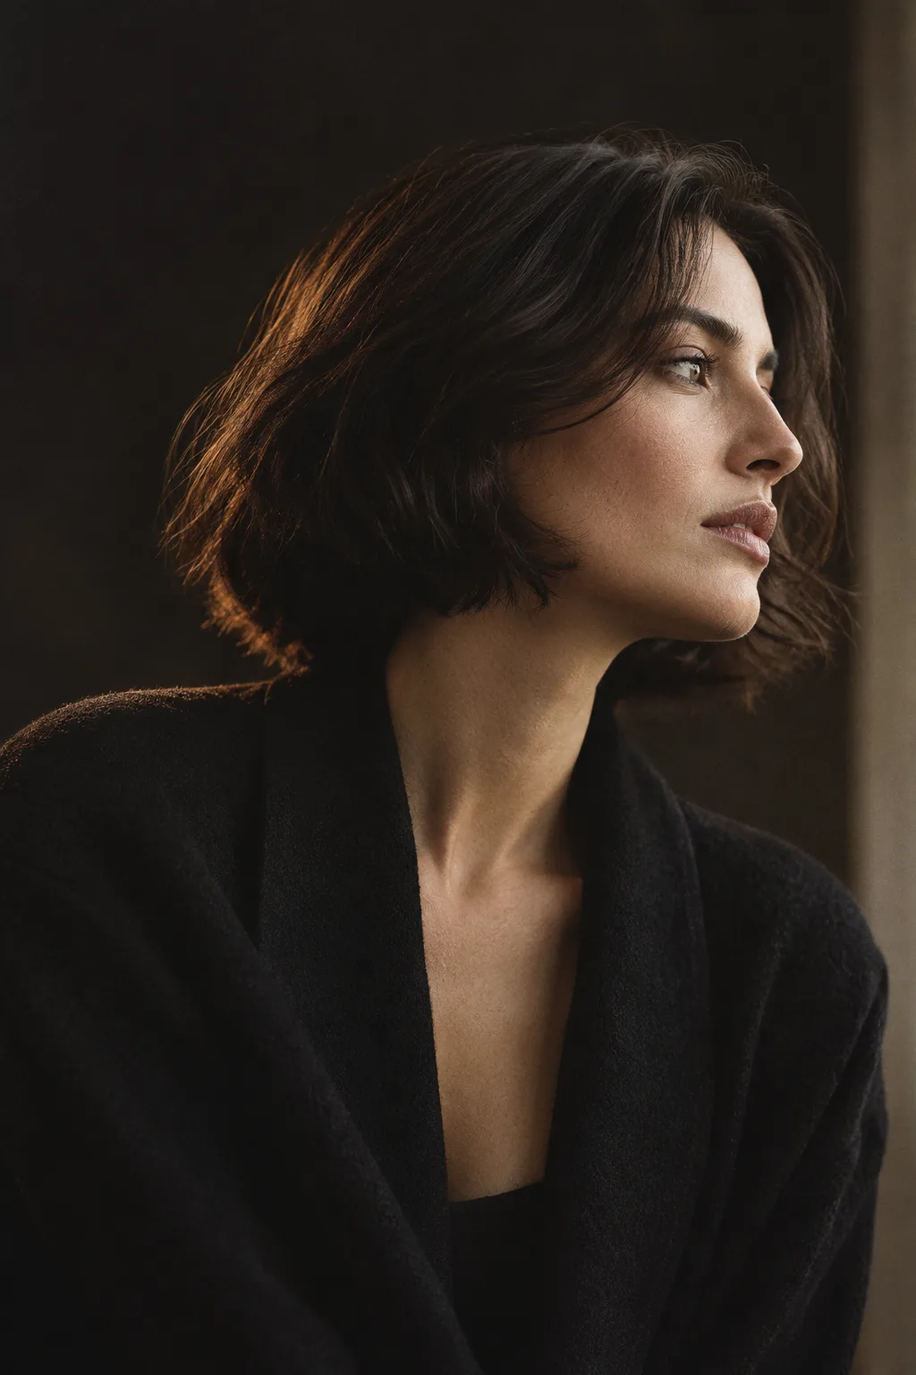
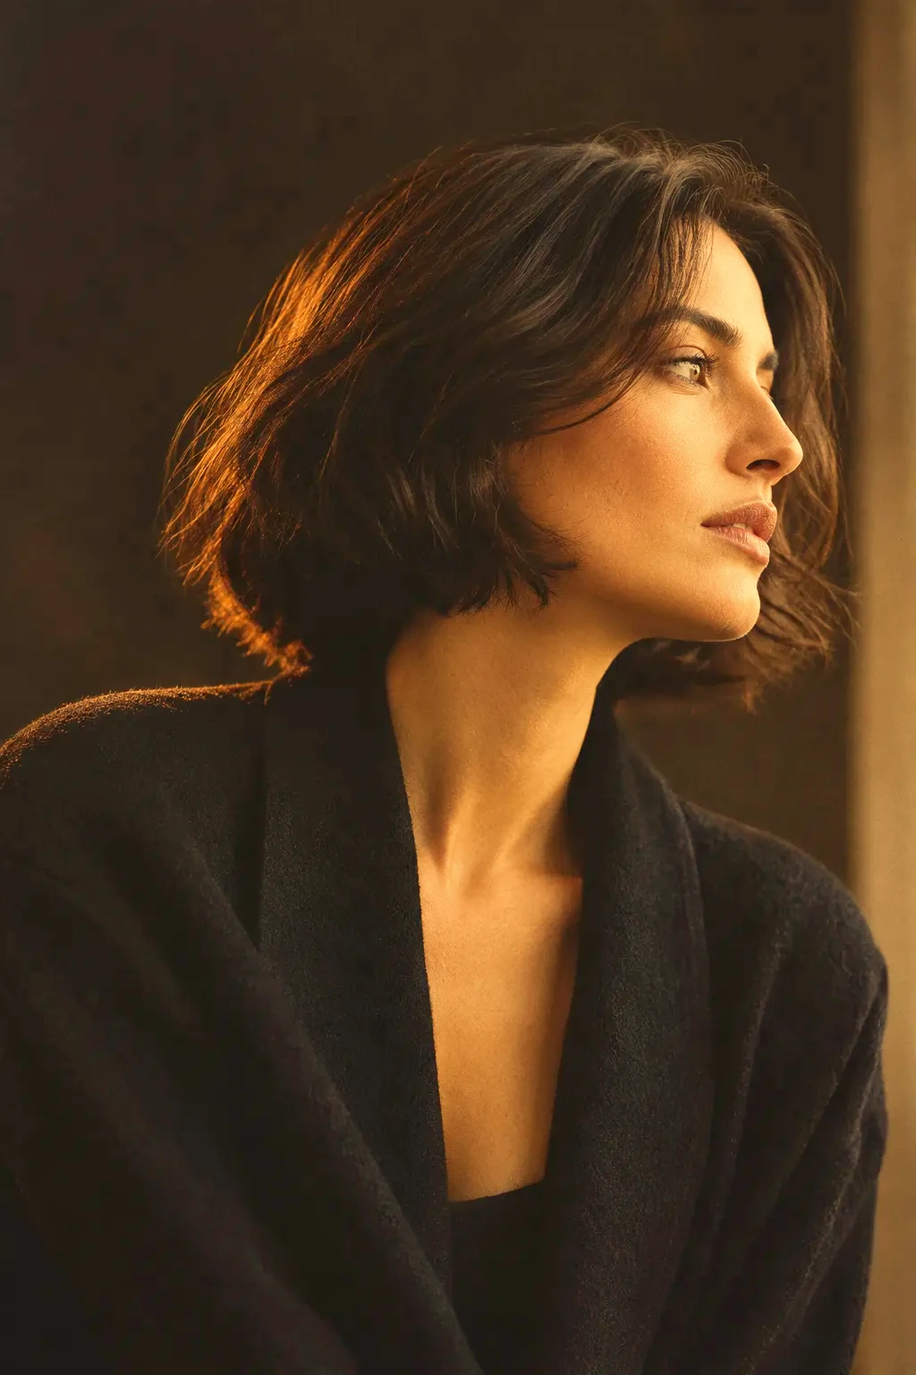
Atelier : hero « Le miroir », animation des quatre images, portraits réchauffés
- Hero : un miroir en arche embué qui se dégage puis s'ouvre sur toute la pièce (remplace la lame de ciseaux)
- Nouvelle section d'animation au défilement (ScrollChoreography, framer-motion) avec quatre images
- Portraits femme et homme réchauffés pour s'accorder à la lumière des nouvelles images
- Galerie et section Femme/Homme : saturation des images relevée

diff --git a/app/globals.css b/app/globals.css
@@ -41,9 +41,9 @@ button{font:inherit}
 .scroll-cue{position:absolute;left:5vw;bottom:44px;display:flex;align-items:center;gap:15px;color:rgba(238,231,222,.55);font-size:7px;letter-spacing:.19em}
 .scroll-cue i{display:block;width:1px;height:34px;background:rgba(200,185,165,.3);transform-origin:top;animation:cue-line 2s ease-in-out infinite}
 @keyframes cue-line{0%,100%{transform:scaleY(.25);opacity:.3}50%{transform:scaleY(1);opacity:.9}}
-.scene-two{justify-content:flex-end;padding-right:15vw}.scene-two .hero-scene__inner{max-width:440px}
+.scene-two{justify-content:flex-start;padding-left:13vw}.scene-two .hero-scene__inner{max-width:440px}
 .scene-three{justify-content:flex-start;padding-left:13vw}.scene-three .hero-scene__inner{max-width:490px}
-.scene-four{justify-content:flex-end;padding-right:13vw}.scene-four .hero-scene__inner{min-width:400px}
+.scene-four{justify-content:flex-start;padding-left:13vw}.scene-four .hero-scene__inner{min-width:400px}
 .scene-five{justify-content:center;text-align:center;padding-bottom:9vh}.scene-five .hero-scene__inner{max-width:none}.scene-five h2{font-size:clamp(42px,7vw,92px);margin-top:10px}
 .scene-number{display:flex;align-items:center;gap:12px;color:var(--beige);font-size:10px}.scene-number i{width:28px;height:1px;background:var(--bronze)}
 .hero-scene h2{font-size:clamp(62px,9vw,128px)}
@@ -73,8 +73,8 @@ button{font:inherit}
 .duo-panel{position:relative;min-width:0;flex:1;overflow:hidden;transition:flex 1s cubic-bezier(.18,.72,.2,1);isolation:isolate}
 .duo-section:has(.duo-women:hover) .duo-women{flex:1.3}.duo-section:has(.duo-women:hover) .duo-men{flex:.7}
 .duo-section:has(.duo-men:hover) .duo-men{flex:1.3}.duo-section:has(.duo-men:hover) .duo-women{flex:.7}
-.duo-panel img{position:absolute;inset:0;width:100%;height:100%;object-fit:cover;object-position:center 35%;z-index:-2;filter:saturate(.58);transition:transform 1.6s cubic-bezier(.2,.7,.2,1),filter 1s}
-.duo-panel:hover img{transform:scale(1.025);filter:saturate(.78)}
+.duo-panel img{position:absolute;inset:0;width:100%;height:100%;object-fit:cover;object-position:center 35%;z-index:-2;filter:saturate(.92);transition:transform 1.6s cubic-bezier(.2,.7,.2,1),filter 1s}
+.duo-panel:hover img{transform:scale(1.025);filter:saturate(1.05)}
 .duo-shade{position:absolute;inset:0;z-index:-1;background:linear-gradient(0deg,rgba(7,7,6,.82),rgba(7,7,6,.1) 58%,rgba(7,7,6,.12))}
 .duo-content{position:absolute;left:clamp(30px,6vw,95px);right:30px;bottom:12%;color:var(--ivory)}
 .duo-content .eyebrow{color:rgba(238,231,222,.62);font-size:8px}
@@ -100,7 +100,7 @@ button{font:inherit}
 .gallery-figure{position:relative;margin:0;will-change:transform}.gallery-large{grid-column:1;grid-row:1;width:100%;height:630px}.gallery-tall{grid-column:2;grid-row:1;width:100%;height:490px;margin-top:90px}.gallery-wide{grid-column:1 / span 2;grid-row:3;width:71%;height:470px;margin:0 0 0 16%}
 .gallery-frame{position:relative;width:100%;height:100%;overflow:hidden;cursor:none;will-change:clip-path}
 .gallery-media{position:absolute;inset:0;transition:transform 1.3s cubic-bezier(.2,.7,.2,1)}
-.gallery-figure img{width:100%;height:100%;object-fit:cover;filter:saturate(.65);transition:filter .9s;will-change:transform}.gallery-large img{object-position:center 32%}.gallery-tall img{object-position:center 25%}.gallery-wide img{object-position:center 58%}
+.gallery-figure img{width:100%;height:100%;object-fit:cover;filter:saturate(.95);transition:filter .9s;will-change:transform}.gallery-large img{object-position:center 32%}.gallery-tall img{object-position:center 25%}.gallery-wide img{object-position:center 58%}
 .gallery-figure figcaption{position:absolute;bottom:0;left:0;right:0;padding:16px 18px;background:linear-gradient(transparent,rgba(7,7,6,.7));display:flex;justify-content:space-between;color:var(--ivory);font-size:7px;letter-spacing:.15em;opacity:0;transform:translateY(12px);transition:opacity .6s,transform .8s cubic-bezier(.2,.7,.2,1)}
 .gallery-marquee{grid-column:1 / -1;grid-row:2;position:relative;z-index:2;margin:-20px -10vw;overflow:hidden;pointer-events:none;padding:0 0 4px}
 .marquee-track{display:flex;width:max-content;will-change:transform}
@@ -109,7 +109,7 @@ button{font:inherit}
 .marquee-word i{font-style:normal;font-size:.5em;-webkit-text-stroke:0;color:var(--bronze)}
 .gallery-heading h2{white-space:nowrap}
 .outline-word{display:inline!important}.outline-letter{display:inline-block!important;color:transparent;-webkit-text-stroke:1.2px var(--ink)}
-@media (hover:hover) and (pointer:fine){.gallery-figure:hover .gallery-media{transform:scale(1.045)}.gallery-figure:hover img{filter:saturate(.92)}.gallery-figure:hover figcaption{opacity:1;transform:none}}
+@media (hover:hover) and (pointer:fine){.gallery-figure:hover .gallery-media{transform:scale(1.045)}.gallery-figure:hover img{filter:saturate(1.08)}.gallery-figure:hover figcaption{opacity:1;transform:none}}
 @media (hover:none),(pointer:coarse){.gallery-figure figcaption{opacity:1;transform:none}.gallery-frame{cursor:auto}}
 
 .signature-section{min-height:92vh;position:relative;display:flex;flex-direction:column;justify-content:center;align-items:center;padding:130px 7vw;text-align:center;overflow:hidden;background:#e1d5c6}
@@ -151,12 +151,11 @@ button{font:inherit}
 @media(prefers-reduced-motion:reduce){html{scroll-behavior:auto}*,*::before,*::after{animation-duration:.01ms!important;animation-iteration-count:1!important;transition-duration:.01ms!important;scroll-behavior:auto!important}.hero-scroll{height:100svh;margin-bottom:0}.hero-progress,.blade-light,.warm-halo,.vertical-light{display:none!important}.hero-wipe,.cut-line,.cut-edge{display:none!important}}
 @media(max-width:700px){.scene-one__inner{margin-top:-3vh}}
 
-/* Sculptural blades: scroll controls geometry and reflected light. */
+/* Le miroir : cadre en arche à droite, qui s'ouvre au défilement jusqu'à occuper tout l'écran. */
+.mirror-frame{position:absolute;z-index:-2;top:15vh;bottom:15vh;right:11vw;width:30vw;overflow:hidden;border-radius:50vw 50vw 0 0;pointer-events:none;box-shadow:0 0 0 1px rgba(176,130,84,.6),0 0 0 14px var(--ink),0 0 0 15px rgba(176,130,84,.3),0 0 140px rgba(166,123,80,.24)}
+.mirror-photo{display:block;width:100%;height:100%;object-fit:cover;object-position:15% 40%;will-change:transform,filter}
+.mirror-sheen{position:absolute;inset:0;width:60%;background:linear-gradient(105deg,transparent 30%,rgba(238,231,222,.2) 50%,transparent 70%);mix-blend-mode:screen;pointer-events:none}
 .hero-stage{background:radial-gradient(ellipse at 70% 48%,#21180f 0%,#100e0c 30%,#070706 68%)}
-.sculpture{position:absolute;inset:0;z-index:-2;display:flex;align-items:center;justify-content:center;pointer-events:none;will-change:transform}
-.sculpture-svg{height:112%;width:auto;max-width:none;overflow:visible}
-.sculpture-blade{will-change:transform}.sculpture-blade--a{transform:rotate(-12deg);transform-origin:300px 610px}.sculpture-blade--b{transform:rotate(12deg);transform-origin:300px 610px}
-.sculpture-edge{opacity:.55}.sculpture-reflection{will-change:transform}
 .hero-vignette{z-index:-1;background:linear-gradient(90deg,rgba(7,7,6,.38),transparent 60%),linear-gradient(0deg,rgba(7,7,6,.5),transparent 35%)}
 .hero-wipe{visibility:hidden;will-change:clip-path}.hero-progress span{transform:scaleX(0)}
 .hero-wipe{--grain:1}
@@ -165,8 +164,8 @@ button{font:inherit}
 .cut-line{background:linear-gradient(90deg,transparent,#c4915a 16%,#eee7de 50%,#c4915a 84%,transparent);box-shadow:0 0 14px 1px rgba(166,123,80,.55);transform-origin:50% 50%}
 .cut-edge{background:linear-gradient(90deg,transparent,var(--bronze) 12%,#c4915a 50%,var(--bronze) 88%,transparent)}
 .cut-edge--top{box-shadow:0 -10px 30px 3px rgba(166,123,80,.5)}.cut-edge--bottom{box-shadow:0 10px 30px 3px rgba(166,123,80,.5)}
-@media(max-width:700px){.sculpture-svg{height:94%}.sculpture{opacity:.8}.hero-scene__inner{position:relative}.scene-copy{max-width:260px}}
-@media(prefers-reduced-motion:reduce){.sculpture{transform:translateX(27%) rotate(18deg)}.sculpture-reflection{display:none}}
+@media(max-width:700px){.mirror-frame{top:57vh;bottom:8vh;right:7vw;width:52vw}.hero-scene__inner{position:relative}.scene-copy{max-width:260px}}
+
 
 .hero-scene:not(.scene-one){visibility:hidden;opacity:0}
 
@@ -184,3 +183,4 @@ button{font:inherit}
 @media(max-width:700px){.services-section,.salon-section{padding:85px 25px}.services-layout,.salon-heading{grid-template-columns:1fr;gap:40px;margin-top:55px}.services-layout h2{font-size:15vw}.services-list h3{font-size:27px}.salon-heading h2{font-size:17vw}.salon-heading p{font-size:23px;max-width:330px}.salon-frame{aspect-ratio:.85}.timeline{grid-template-columns:1fr;gap:34px;margin-top:50px;padding-left:30px}.timeline__rail{left:3px;right:auto;top:0;bottom:0;width:1px;height:auto}.timeline__fill{transform-origin:top center;transform:scaleY(0)}.timeline__step{padding:0}.timeline__dot{left:-30px;top:8px}.timeline__step h3{font-size:27px;margin:10px 0 6px}.timeline__step p{font-size:18px}.salon-photo figcaption{font-size:6px;gap:20px}.salon-after{align-items:flex-start;flex-direction:column;gap:15px;margin-top:35px}.salon-after p{font-size:22px}.material-notes{grid-template-columns:1fr;gap:25px;margin-top:55px}.material-notes h3{margin-top:13px}.universe-intention{font-size:24px;margin:14px 0}.duo-panel{height:500px}}
 
 @media(prefers-reduced-motion:reduce){.outline-letter{color:var(--ink)}.gallery-frame,.salon-frame{clip-path:none}.timeline__step{opacity:1}.timeline__fill{transform:none}.timeline__dot{background:var(--bronze);border-color:var(--bronze)}.salon-lede .word{opacity:1}}
+@media(max-width:700px){.mirror-frame{top:57vh;bottom:6vh;right:8vw;width:50vw}.hero-scene{padding:calc(var(--header-height) + 24px) 7vw 41vh}.scene-two,.scene-three,.scene-four{padding-left:7vw}.hero-scene h1{font-size:clamp(64px,19vw,90px)}}

diff --git a/app/page.tsx b/app/page.tsx
@@ -4,6 +4,7 @@ import { useEffect, useRef, useState } from "react";
 import gsap from "gsap";
 import { ScrollTrigger } from "gsap/ScrollTrigger";
 import Lenis from "lenis";
+import { ScrollChoreography } from "@/components/ui/scroll-choreography";
 
 const TIMELINE = [
   ["01", "ACCUEIL", "Un fauteuil, un thé, le temps de se poser."],
@@ -11,6 +12,19 @@ const TIMELINE = [
   ["03", "GESTE", "La coupe se dessine, sans précipitation."],
   ["04", "FINITION", "Le détail qui signe l’ensemble."],
 ];
+
+const CHOREOGRAPHY_IMAGES = {
+  topLeft: "/choreo-1-texture.webp",
+  bottomRight: "/choreo-2-geste.webp",
+  bottomLeft: "/choreo-3-profil.webp",
+  topRight: "/choreo-4-miroir.webp",
+};
+const CHOREOGRAPHY_ALTS = {
+  topLeft: "Gros plan sur des boucles châtain dans une lumière dorée",
+  bottomRight: "Les mains d’un coiffeur coupant une mèche avec des ciseaux et un peigne",
+  bottomLeft: "Profil d’une femme à la coupe courte structurée, pull noir à col roulé",
+  topRight: "Une cliente à la coupe courte se regarde dans le miroir du salon, lumière dorée de fin de journée",
+};
 
 const MARQUEE_WORDS = ["MOUVEMENT", "TEXTURE", "LIGNE", "LUMIÈRE"];
 
@@ -72,9 +86,9 @@ export default function Home() {
         gsap.set(line, { autoAlpha: 0, scaleX: 0, transformOrigin: "0% 50%" });
         gsap.set(halo, { autoAlpha: 0, yPercent: 25, scale: 0.8 });
         gsap.set(slit, { autoAlpha: 0, scaleY: 0, transformOrigin: "50% 100%" });
-        gsap.set(".sculpture", { xPercent: compact ? 23 : 29, rotation: 24 });
-        gsap.set(".sculpture-blade--a", { rotation: -12, svgOrigin: "300 610" });
-        gsap.set(".sculpture-blade--b", { rotation: 12, svgOrigin: "300 610" });
+        // « Le miroir » : un reflet embué dans un cadre en arche, qui se dégage puis s'ouvre sur toute la pièce.
+        gsap.set(".mirror-photo", { filter: "blur(14px) brightness(0.38) saturate(0.8)", scale: 1.2 });
+        gsap.set(".mirror-sheen", { xPercent: -160 });
 
         const timeline = gsap.timeline({
           scrollTrigger: {
@@ -90,14 +104,11 @@ export default function Home() {
           },
         });
         timeline
-          .to(".sculpture", { xPercent: compact ? -24 : -28, rotation: -30, scale: 0.9, duration: 0.22, ease: "sine.inOut" }, 0.1)
-          .to(".sculpture-blade--a", { rotation: -26, duration: 0.22, ease: "sine.inOut" }, 0.1)
-          .to(".sculpture-blade--b", { rotation: 26, duration: 0.22, ease: "sine.inOut" }, 0.1)
-          .to(".sculpture-reflection", { yPercent: 130, duration: 0.32, ease: "none" }, 0.05)
-          .to(".sculpture", { xPercent: compact ? 23 : 29, rotation: 15, scale: 1.06, duration: 0.2, ease: "sine.inOut" }, 0.36)
-          .to(".sculpture-blade--a", { rotation: -7, duration: 0.2 }, 0.36)
-          .to(".sculpture-blade--b", { rotation: 7, duration: 0.2 }, 0.36)
-          .to(".sculpture", { xPercent: compact ? 25 : -27, rotation: -8, scale: 1.14, duration: 0.16, ease: "sine.inOut" }, 0.65)
+          .to(".mirror-photo", { filter: "blur(0px) brightness(1) saturate(1)", duration: 0.36, ease: "power1.out" }, 0.04)
+          .to(".mirror-photo", { scale: 1, duration: 0.9, ease: "none" }, 0.02)
+          .to(".mirror-sheen", { xPercent: 260, duration: 0.4, ease: "none" }, 0.04)
+          .to(".mirror-frame", { top: 0, bottom: 0, right: 0, width: "100vw", borderRadius: "0px 0px 0px 0px", boxShadow: "0 0 0 0px rgba(176,130,84,0), 0 0 0 0px rgba(7,7,6,0), 0 0 0 0px rgba(176,130,84,0), 0 0 0px rgba(166,123,80,0)", duration: 0.46, ease: "power2.inOut" }, 0.5)
+          .to(".mirror-photo", { objectPosition: "50% 45%", duration: 0.46, ease: "power2.inOut" }, 0.5)
           .to(line, { autoAlpha: 0.48, scaleX: 1, duration: 0.055, ease: "power2.out" }, 0.19)
           .to(scenes[0], { autoAlpha: 0, clipPath: "inset(0 0 100% 0)", duration: 0.07, ease: "power2.inOut" }, 0.2)
           .fromTo(scenes[1], { autoAlpha: 0, clipPath: "inset(0 100% 0 0)" }, { autoAlpha: 1, clipPath: "inset(0 0% 0 0)", duration: 0.07, ease: "power2.out" }, 0.22)
@@ -109,9 +120,7 @@ export default function Home() {
           .to(scenes[2], { autoAlpha: 0, clipPath: "inset(100% 0 0 0)", duration: 0.07, ease: "power2.inOut" }, 0.685)
           .to(".hero-vignette", { opacity: 0.92, duration: 0.09 }, 0.68)
           .to(slit, { autoAlpha: 0.7, scaleY: 1, duration: 0.1, ease: "power2.out" }, 0.69)
-          .fromTo(scenes[3], { autoAlpha: 0, clipPath: "inset(0 0 100% 0)", y: 12 }, { autoAlpha: 1, clipPath: "inset(0 0 0% 0)", y: 0, duration: 0.08, ease: "power3.out" }, 0.72)
-          // Hold Personality, then let the sticky stage leave with the normal page flow.
-          .to(".sculpture-edge", { opacity: 0.55, duration: 0.45, ease: "sine.out" }, 0.8);
+          .fromTo(scenes[3], { autoAlpha: 0, clipPath: "inset(0 0 100% 0)", y: 12 }, { autoAlpha: 1, clipPath: "inset(0 0 0% 0)", y: 0, duration: 0.08, ease: "power3.out" }, 0.72);
 
         // « La coupe » : un trait bronze traverse l’écran, le noir se fend le long du trait
         // et l’ivoire du manifeste apparaît par l’ouverture qui s’agrandit.
@@ -120,7 +129,6 @@ export default function Home() {
         gsap.set(".cut-edge", { autoAlpha: 0, top: "50%" });
         timeline
           .to(".cut-line", { autoAlpha: 1, scaleX: 1, duration: 0.06, ease: "power3.inOut" }, 0.93)
-          .to(".sculpture", { opacity: 0.35, duration: 0.07, ease: "none" }, 0.93)
           .set(".cut-line", { autoAlpha: 0 }, 0.995)
           .set(".cut-edge", { autoAlpha: 1 }, 0.995)
           .fromTo(".hero-wipe", { clipPath: "inset(50% 0% 50% 0%)" }, { clipPath: "inset(0% 0% 0% 0%)", duration: 0.19, ease: "power2.inOut" }, 1)
@@ -197,7 +205,7 @@ export default function Home() {
         });
       }
 
-      ["#manifeste", "#le-temps", "#prestations", ".gallery-section", ".signature-section", "#femme-homme", "#expertise", "#rendez-vous"]
+      ["#manifeste", "#le-temps", "#prestations", ".gallery-section", ".signature-section", "#femme-homme", "#expertise", "#choregraphie", "#rendez-vous"]
         .forEach((selector) => {
           const section = document.querySelector<HTMLElement>(selector);
           if (!section) return;
@@ -239,28 +247,9 @@ export default function Home() {
 
       <section ref={heroRef} id="top" className="hero-scroll" aria-label="L’art du geste">
         <div className="hero-stage">
-          <div className="sculpture" aria-hidden="true">
-            <svg className="sculpture-svg" viewBox="0 0 600 900" fill="none">
-              <defs>
-                <linearGradient id="blade-metal" x1="255" y1="200" x2="350" y2="540" gradientUnits="userSpaceOnUse">
-                  <stop stopColor="#100E0C" /><stop offset=".35" stopColor="#29221B" /><stop offset=".48" stopColor="#58432F" /><stop offset=".52" stopColor="#211A14" /><stop offset="1" stopColor="#090908" />
-                </linearGradient>
-                <linearGradient id="blade-edge" x1="300" y1="70" x2="300" y2="800" gradientUnits="userSpaceOnUse">
-                  <stop stopColor="#EEE7DE" stopOpacity=".1" /><stop offset=".3" stopColor="#C8B9A5" /><stop offset=".65" stopColor="#A67B50" /><stop offset="1" stopColor="#A67B50" stopOpacity="0" />
-                </linearGradient>
-                <linearGradient id="blade-reflection" x1="0" y1="0" x2="0" y2="200" gradientUnits="userSpaceOnUse"><stop stopColor="#A67B50" stopOpacity="0" /><stop offset=".5" stopColor="#C8B9A5" stopOpacity=".35" /><stop offset="1" stopColor="#A67B50" stopOpacity="0" /></linearGradient>
-                <path id="blade-shape" d="M300 65 C286 157 255 356 269 540 L290 616 L271 765 Q269 801 287 805 Q308 811 310 774 L320 610 L330 540 C341 364 319 165 300 65Z" />
-                <clipPath id="blade-mask"><use href="#blade-shape" /></clipPath>
-              </defs>
-              {["a", "b"].map((blade) => <g key={blade} className={`sculpture-blade sculpture-blade--${blade}`}>
-                <use href="#blade-shape" fill="url(#blade-metal)" />
-                <use className="sculpture-edge" href="#blade-shape" stroke="url(#blade-edge)" strokeWidth="1.1" />
-                <g clipPath="url(#blade-mask)"><rect className="sculpture-reflection" x="240" y="-160" width="110" height="600" fill="url(#blade-reflection)" /></g>
-                <path d="M300 77 L300 546" stroke="#EEE7DE" strokeOpacity=".12" strokeWidth=".6" />
-              </g>)}
-              <circle cx="300" cy="610" r="12" fill="#17130F" stroke="#A67B50" strokeOpacity=".45" />
-              <circle cx="300" cy="610" r="4" fill="#57412D" />
-            </svg>
+          <div className="mirror-frame">
+            <img className="mirror-photo" src="/choreo-4-miroir.webp" alt="Une cliente à la coupe courte se regarde dans le miroir du salon, lumière dorée de fin de journée" width="1672" height="941" fetchPriority="high" />
+            <span className="mirror-sheen" aria-hidden="true" />
           </div>
           <div className="hero-vignette" />
           <div className="warm-halo" />
@@ -362,6 +351,10 @@ export default function Home() {
           <article><span className="step-number">02</span><div><h3>GESTE</h3><p>Une précision adaptée<br />à chaque matière.</p></div><span className="step-arrow">↘</span></article>
           <article><span className="step-number">03</span><div><h3>FINITION</h3><p>La signature se joue<br />dans les détails.</p></div><span className="step-arrow">↘</span></article>
         </div>
+      </section>
+
+      <section id="choregraphie" className="tone-dark" aria-label="Le salon en images">
+        <ScrollChoreography images={CHOREOGRAPHY_IMAGES} alts={CHOREOGRAPHY_ALTS} />
       </section>
 
       <section id="galerie" className="gallery-section tone-light">

diff --git a/components/ui/scroll-choreography.tsx b/components/ui/scroll-choreography.tsx
@@ -1,0 +1,158 @@
+"use client";
+
+import { motion, useReducedMotion, useScroll, useSpring, useTransform } from "framer-motion";
+import { useEffect, useRef, useState } from "react";
+import { cn } from "@/lib/utils";
+
+interface ScrollChoreographyProps {
+  className?: string;
+  images: {
+    topLeft: string;
+    topRight: string;
+    bottomLeft: string;
+    bottomRight: string;
+  };
+  /** Textes alternatifs, dans le même ordre que `images`. */
+  alts?: {
+    topLeft: string;
+    topRight: string;
+    bottomLeft: string;
+    bottomRight: string;
+  };
+}
+
+const DEFAULT_ALTS = { topLeft: "", topRight: "", bottomLeft: "", bottomRight: "" };
+
+export function ScrollChoreography({
+  className,
+  images,
+  alts = DEFAULT_ALTS,
+}: ScrollChoreographyProps) {
+  const containerRef = useRef<HTMLDivElement>(null);
+  const reducedMotion = useReducedMotion();
+
+  // Sur téléphone, les cadres sont plus grands et plus serrés pour rester lisibles.
+  const [compact, setCompact] = useState(false);
+  useEffect(() => {
+    const query = window.matchMedia("(max-width: 700px)");
+    const update = () => setCompact(query.matches);
+    update();
+    query.addEventListener("change", update);
+    return () => query.removeEventListener("change", update);
+  }, []);
+
+  const { scrollYProgress } = useScroll({
+    target: containerRef,
+    offset: ["start start", "end end"],
+  });
+
+  const smoothProgress = useSpring(scrollYProgress, {
+    stiffness: 400,
+    damping: 50,
+    mass: 1.2,
+    restDelta: 0.001,
+  });
+
+  // Default positions relative to center
+  const boxWidth = compact ? "44vw" : "36vw";
+  const boxHeight = compact ? "22vh" : "24vh";
+  const xLeft = compact ? "-23vw" : "-20vw";
+  const xRight = compact ? "23vw" : "20vw";
+  const yTop = compact ? "-13vh" : "-14vh";
+  const yBottom = compact ? "13vh" : "14vh";
+
+  // Phase 1: 0 - 0.3 (Diagonal movement)
+  // Phase 2: 0.35 - 0.65 (Stack alignment to center)
+  // Phase 3: 0.7 - 0.9 (Top Right expands to full screen)
+
+  // Top Left -> moves to Bottom Left, then to Center
+  const tlX = useTransform(smoothProgress, [0, 0.3, 0.35, 0.65, 1], [xLeft, xLeft, xLeft, "0vw", "0vw"]);
+  const tlY = useTransform(smoothProgress, [0, 0.3, 0.35, 0.65, 1], [yTop, yBottom, yBottom, "0vh", "0vh"]);
+
+  // Bottom Right -> moves to Top Right, then to Center
+  const brX = useTransform(smoothProgress, [0, 0.3, 0.35, 0.65, 1], [xRight, xRight, xRight, "0vw", "0vw"]);
+  const brY = useTransform(smoothProgress, [0, 0.3, 0.35, 0.65, 1], [yBottom, yTop, yTop, "0vh", "0vh"]);
+
+  // Bottom Left -> stays, then moves to Center
+  const blX = useTransform(smoothProgress, [0, 0.3, 0.35, 0.65, 1], [xLeft, xLeft, xLeft, "0vw", "0vw"]);
+  const blY = useTransform(smoothProgress, [0, 0.3, 0.35, 0.65, 1], [yBottom, yBottom, yBottom, "0vh", "0vh"]);
+
+  // Top Right -> stays, then moves to Center, then expands
+  const trX = useTransform(smoothProgress, [0, 0.3, 0.35, 0.65, 1], [xRight, xRight, xRight, "0vw", "0vw"]);
+  const trY = useTransform(smoothProgress, [0, 0.3, 0.35, 0.65, 1], [yTop, yTop, yTop, "0vh", "0vh"]);
+
+  // Top Right (Hero) scaling/expansion properties
+  const heroWidth = useTransform(smoothProgress, [0.65, 0.7, 0.9, 1], [boxWidth, boxWidth, "100vw", "100vw"]);
+  const heroHeight = useTransform(smoothProgress, [0.65, 0.7, 0.9, 1], [boxHeight, boxHeight, "100vh", "100vh"]);
+
+  // Opacity fading for images underneath the hero as it expands
+  const underImagesOpacity = useTransform(smoothProgress, [0.75, 0.85], [1, 0]);
+
+  // Mouvement réduit : pas d'animation au scroll, une simple grille de quatre images.
+  if (reducedMotion) {
+    return (
+      <div className={cn("grid w-full grid-cols-2 gap-3 p-6 md:gap-6 md:p-12", className)}>
+        {([
+          ["topLeft", images.topLeft],
+          ["topRight", images.topRight],
+          ["bottomLeft", images.bottomLeft],
+          ["bottomRight", images.bottomRight],
+        ] as const).map(([key, src]) => (
+          <img key={key} src={src} alt={alts[key]} loading="lazy" className="aspect-[3/2] w-full object-cover" />
+        ))}
+      </div>
+    );
+  }
+
+  const baseImageClasses =
+    "absolute left-1/2 top-1/2 overflow-hidden -translate-x-1/2 -translate-y-1/2 bg-muted shadow-2xl will-change-transform";
+  const sizeStyle = { width: boxWidth, height: boxHeight };
+
+  return (
+    <div ref={containerRef} className={cn("relative h-[300vh] w-full", className)}>
+      <div className="sticky top-0 h-screen w-full overflow-hidden">
+        <div className="absolute inset-0 flex items-center justify-center">
+
+          {/* Top Left Image */}
+          <motion.div
+            style={{ ...sizeStyle, x: tlX, y: tlY, opacity: underImagesOpacity }}
+            className={cn(baseImageClasses, "z-10")}
+          >
+            <img src={images.topLeft} alt={alts.topLeft} className="h-full w-full object-cover" />
+          </motion.div>
+
+          {/* Bottom Right Image */}
+          <motion.div
+            style={{ ...sizeStyle, x: brX, y: brY, opacity: underImagesOpacity }}
+            className={cn(baseImageClasses, "z-20")}
+          >
+            <img src={images.bottomRight} alt={alts.bottomRight} className="h-full w-full object-cover" />
+          </motion.div>
+
+          {/* Bottom Left Image */}
+          <motion.div
+            style={{ ...sizeStyle, x: blX, y: blY, opacity: underImagesOpacity }}
+            className={cn(baseImageClasses, "z-30")}
+          >
+            <img src={images.bottomLeft} alt={alts.bottomLeft} className="h-full w-full object-cover" />
+          </motion.div>
+
+          {/* Top Right Image (Hero - expands at the end) */}
+          <motion.div
+            style={{
+              x: trX,
+              y: trY,
+              width: heroWidth,
+              height: heroHeight,
+            }}
+            className={cn(baseImageClasses, "z-40 origin-center bg-black/5")}
+          >
+            <img src={images.topRight} alt={alts.topRight} className="h-full w-full object-cover" />
+          </motion.div>
+        </div>
+      </div>
+    </div>
+  );
+}
+
+export default ScrollChoreography;
